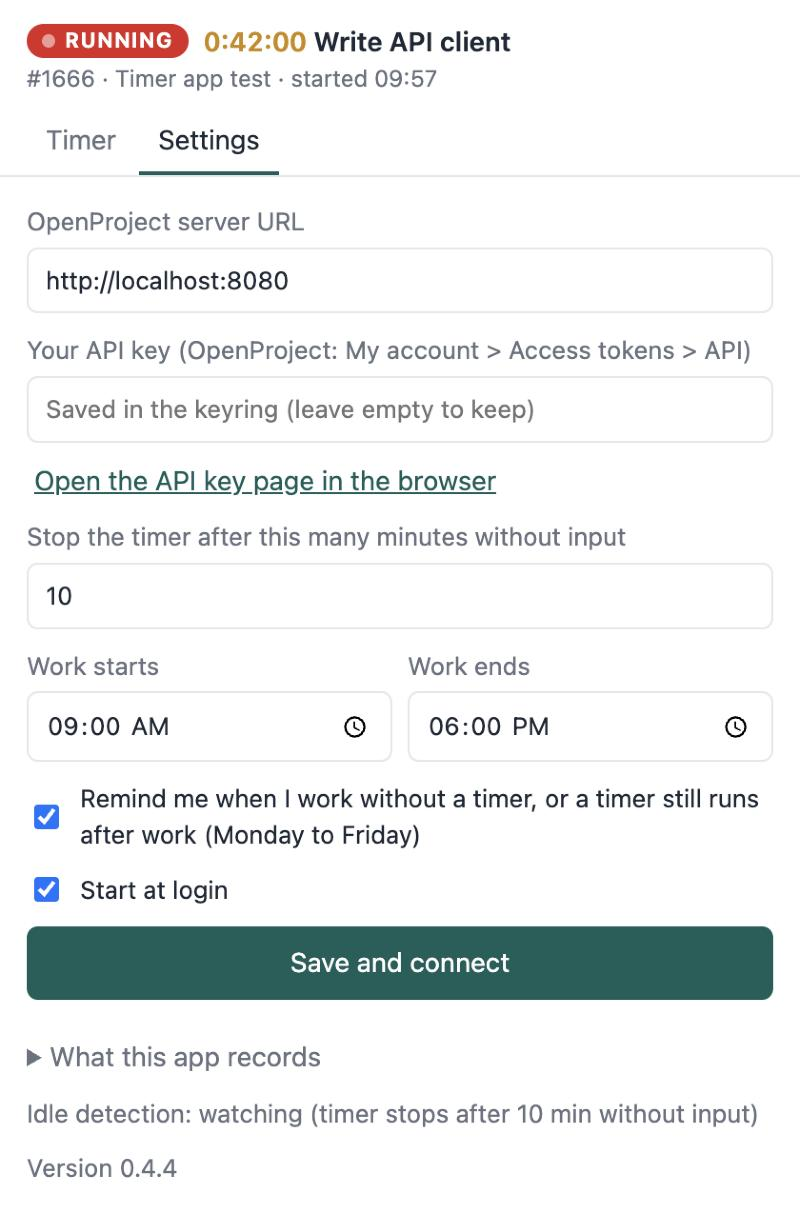
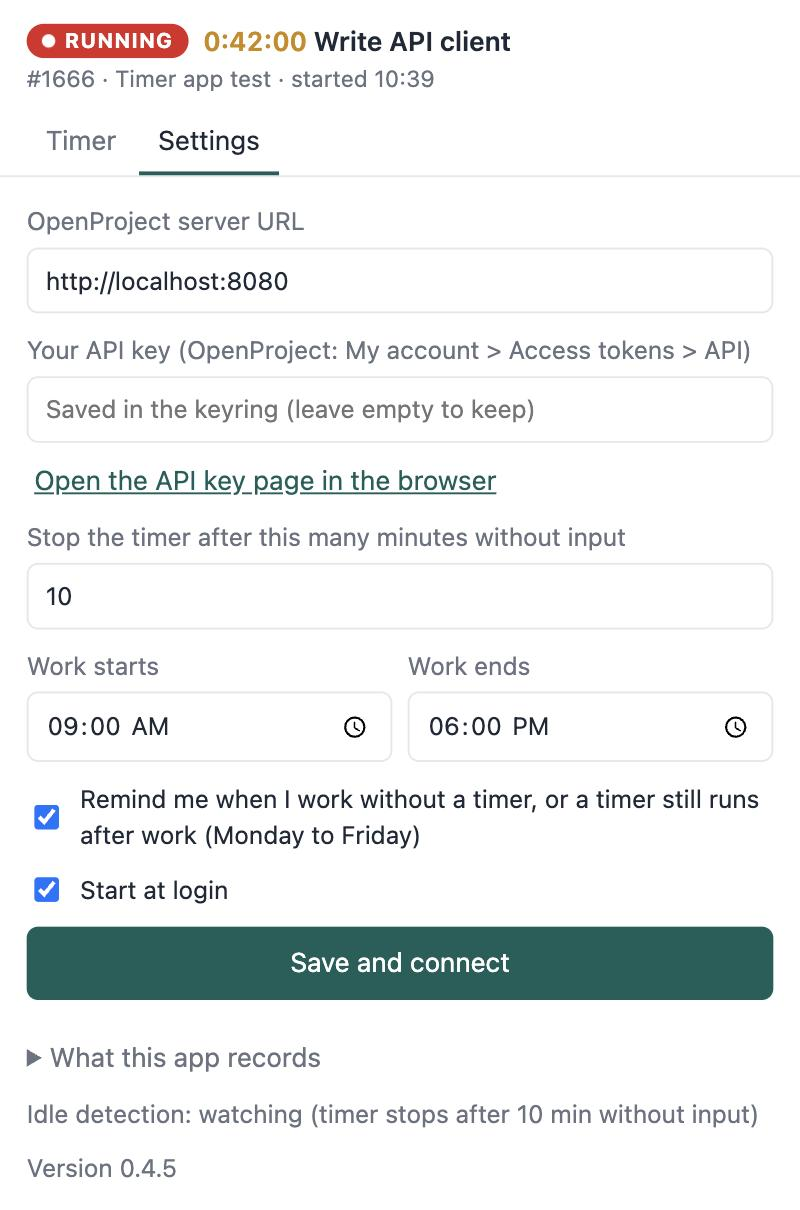
0.4.5: measure time on the server's clock; tray in step with the window
- Elapsed time and stop hours use the server's clock (HTTP Date header),
  so a computer clock that is off no longer shows or logs the wrong time
- Settings warns when the computer's clock is off by a minute or more
- Tray text refreshes every 5 seconds
- Changelog for 0.4.5; Settings screenshot and demo GIF updated

diff --git a/ui/main.js b/ui/main.js
@@ -272,6 +272,13 @@ function render() {
   $("#set-key").placeholder = state.configured ? "Saved in the keyring (leave empty to keep)" : "";
   $("#idle-status").textContent = state.idle_status;
   $("#app-version").textContent = state.version || "";
+  // The computer's clock is off: the app uses the server's clock, but say so (other programs
+  // and the browser timer will still be wrong).
+  const off = state.clock_offset_secs || 0;
+  $("#clock-warn").hidden = Math.abs(off) < 60;
+  $("#clock-warn").textContent = "This computer's clock is " + Math.round(Math.abs(off) / 60) +
+    " min " + (off > 0 ? "behind" : "ahead of") + " the server. The timer uses the server's time; " +
+    "turn on automatic date & time in Ubuntu's settings to fix the clock.";
   $("#btn-update").hidden = !state.update_version;
   $("#btn-update").textContent = "Update to " + (state.update_version || "") + ": install and restart";
 }

diff --git a/dev/mock-tauri.js b/dev/mock-tauri.js
@@ -12,7 +12,7 @@
     settings: { server_url: "http://localhost:8080", idle_minutes: 10, work_start: "09:00", work_end: "18:00", reminders: true, start_at_login: true },
     user: { id: 11, name: "Timer Test" }, timer: null, idle_stop: null, stop_problem: null,
     offline: false, waiting: [], refusal: null,
-    break_available: true, version: "0.4.4",
+    break_available: true, version: "0.4.5",
     today: [
       { id: 501, task: { id: 1667, subject: "Design tray menu", project: "Timer app test" }, hours: 1.5, comment: "Tray layout" },
       { id: 502, task: { id: 1791, subject: "Breaks", project: "Internal" }, hours: 0.25, comment: "Tea" },

diff --git a/ui/index.html b/ui/index.html
@@ -167,6 +167,7 @@
       </details>
       <p class="hint">Idle detection: <span id="idle-status"></span></p>
       <p class="hint">Version <span id="app-version"></span></p>
+      <p id="clock-warn" class="hint warn" hidden></p>
       <button id="btn-update" class="primary" hidden></button>
     </section>
   </main>

diff --git a/src-tauri/src/lib.rs b/src-tauri/src/lib.rs
@@ -53,6 +53,8 @@ struct App {
     /// A newer version found by the updater, ready to install.
     update: tokio::sync::Mutex<Option<tauri_plugin_updater::Update>>,
     update_version: Mutex<Option<String>>,
+    /// Last tray title and tooltip set.
+    tray_text: Mutex<(String, String)>,
     /// Today's finished entries, and the running task's hours against its estimate.
     today: Mutex<Vec<Logged>>,
     task_hours: Mutex<Option<TaskHours>>,
@@ -95,6 +97,8 @@ struct RefusalView {
 
 #[derive(Serialize)]
 struct Snapshot {
+    /// Seconds this computer's clock is behind the server's (negative = ahead).
+    clock_offset_secs: i64,
     configured: bool,
     settings: Settings,
     max_idle_minutes: u32,
@@ -144,7 +148,7 @@ async fn snapshot(app: &AppHandle) -> Snapshot {
     let settings = st.settings.lock().unwrap().clone();
     let recent = st.recent.lock().unwrap().clone();
     let core = st.core.lock().await;
-    let now = Utc::now();
+    let now = crate::api::now();
     let timer = match (&core.timer, &core.session) {
         (Some(t), Some(s)) => Some(TimerView {
             entry_id: t.id,
@@ -188,6 +192,7 @@ async fn snapshot(app: &AppHandle) -> Snapshot {
         .clone()
         .filter(|h| timer.as_ref().is_some_and(|t| t.task.id == h.task_id));
     Snapshot {
+        clock_offset_secs: crate::api::clock_offset_secs(),
         configured: core.client.is_some(),
         settings,
         max_idle_minutes: MAX_IDLE_MINUTES,
@@ -287,6 +292,42 @@ fn build_menu(app: &AppHandle, snap: &Snapshot) -> tauri::Result<Menu<tauri::Wry
     Ok(menu)
 }
 
+/// The tray's title and tooltip. Set only when they change, so it can run every few seconds.
+fn set_tray_text(app: &AppHandle, tray: &tauri::tray::TrayIcon, timer: Option<(String, i64)>, configured: bool, offline: bool) {
+    let mut title = match (&timer, configured) {
+        (Some((_, secs)), _) => format!("● {}", fmt_hm(*secs)),
+        (None, true) => "no timer".into(),
+        (None, false) => String::new(),
+    };
+    if offline {
+        title.push_str(" (offline)");
+    }
+    let tip = match &timer {
+        Some((subject, secs)) => format!("DWL timer: {} ({})", subject, fmt_hm(*secs)),
+        None => "DWL timer: no timer running".into(),
+    };
+    let st = app.state::<App>();
+    let mut last = st.tray_text.lock().unwrap();
+    if *last != (title.clone(), tip.clone()) {
+        let _ = tray.set_title(Some(title.clone()));
+        let _ = tray.set_tooltip(Some(tip.clone()));
+        *last = (title, tip);
+    }
+}
+
+/// Keep the tray's minutes in step with the window's clock (the full refresh runs every 30 s).
+async fn refresh_tray_text(app: &AppHandle) {
+    let Some(tray) = app.tray_by_id(TRAY_ID) else { return };
+    let (timer, configured, offline) = {
+        let st = app.state::<App>();
+        let core = st.core.lock().await;
+        let timer = core.timer.as_ref().zip(core.session.as_ref())
+            .map(|(t, s)| (t.task.subject.clone(), s.worked_secs(crate::api::now())));
+        (timer, core.client.is_some(), core.offline)
+    };
+    set_tray_text(app, &tray, timer, configured, offline);
+}
+
 /// Push the new state to the tray and the window.
 async fn publish(app: &AppHandle) {
     let snap = snapshot(app).await;
@@ -294,20 +335,8 @@ async fn publish(app: &AppHandle) {
         if let Ok(menu) = build_menu(app, &snap) {
             let _ = tray.set_menu(Some(menu));
         }
-        let mut title = match (&snap.timer, snap.configured) {
-            (Some(t), _) => format!("● {}", fmt_hm(t.worked_secs)),
-            (None, true) => "no timer".into(),
-            (None, false) => String::new(),
-        };
-        if snap.offline {
-            title.push_str(" (offline)");
-        }
-        let _ = tray.set_title(Some(title));
-        let tip = match &snap.timer {
-            Some(t) => format!("DWL timer: {} ({})", t.task.subject, fmt_hm(t.worked_secs)),
-            None => "DWL timer: no timer running".into(),
-        };
-        let _ = tray.set_tooltip(Some(tip));
+        let timer = snap.timer.as_ref().map(|t| (t.task.subject.clone(), t.worked_secs));
+        set_tray_text(app, &tray, timer, snap.configured, snap.offline);
     }
     let _ = app.emit_to(WINDOW, "state", &snap);
 }
@@ -601,7 +630,7 @@ async fn run_stop(app: &AppHandle, res: Result<Stop, String>) -> Result<bool, St
 
 #[tauri::command]
 async fn stop_timer(app: AppHandle, input: Option<StopInput>) -> Result<bool, String> {
-    let res = app.state::<App>().core.lock().await.stop(Utc::now(), input.unwrap_or_default()).await;
+    let res = app.state::<App>().core.lock().await.stop(crate::api::now(), input.unwrap_or_default()).await;
     run_stop(&app, res).await
 }
 
@@ -610,7 +639,7 @@ async fn stop_and_start(app: AppHandle, task_id: u64, comment: String, input: Op
     let res = {
         let st = app.state::<App>();
         let mut core = st.core.lock().await;
-        core.stop_and_start(task_id, &comment, Utc::now(), input.unwrap_or_default()).await
+        core.stop_and_start(task_id, &comment, crate::api::now(), input.unwrap_or_default()).await
     };
     run_stop(&app, res).await
 }
@@ -643,7 +672,7 @@ fn debug_fake_away(state: State<'_, App>, minutes: i64) -> Result<(), String> {
     if std::env::var("DWL_TIMER_DEBUG").as_deref() != Ok("1") {
         return Err("debug commands are off".into());
     }
-    let now = Utc::now();
+    let now = crate::api::now();
     let tx = &state.idle_tx;
     tx.send(IdleEvent::Idle { since: now - chrono::Duration::minutes(minutes) }).map_err(|e| e.to_string())?;
     tx.send(IdleEvent::Active { at: now }).map_err(|e| e.to_string())?;
@@ -739,7 +768,7 @@ async fn remind(app: &AppHandle) {
     let s = st.settings.lock().unwrap().clone();
     let (configured, timer) = {
         let core = st.core.lock().await;
-        let timer = core.timer.as_ref().zip(core.session.as_ref()).map(|(t, s)| (t.task.subject.clone(), s.worked_secs(Utc::now())));
+        let timer = core.timer.as_ref().zip(core.session.as_ref()).map(|(t, s)| (t.task.subject.clone(), s.worked_secs(crate::api::now())));
         (core.client.is_some(), timer)
     };
     if !configured {
@@ -765,6 +794,13 @@ async fn remind(app: &AppHandle) {
 }
 
 fn spawn_tickers(app: AppHandle) {
+    let tray_app = app.clone();
+    tauri::async_runtime::spawn(async move {
+        loop {
+            tokio::time::sleep(std::time::Duration::from_secs(5)).await;
+            refresh_tray_text(&tray_app).await;
+        }
+    });
     tauri::async_runtime::spawn(async move {
         let mut n: u64 = 0;
         loop {
@@ -786,7 +822,7 @@ fn spawn_tickers(app: AppHandle) {
                 let _ = refresh(app.clone()).await;
             }
             // Sleep / restart gaps and stops that failed while offline.
-            let res = app.state::<App>().core.lock().await.tick(Utc::now()).await;
+            let res = app.state::<App>().core.lock().await.tick(crate::api::now()).await;
             handle_due(&app, res).await;
             remind(&app).await;
             // Updates: a minute after start, then every 6 hours.
@@ -820,7 +856,7 @@ async fn connect_on_start(app: AppHandle) {
     set_error(&app, result.err());
     if st.core.lock().await.client.is_some() {
         // Time since the app last ran (shutdown, crash) counts as away; the user is here now.
-        let now = Utc::now();
+        let now = crate::api::now();
         let mut core = st.core.lock().await;
         let gap = core.tick(now).await;
         let back = core.on_idle_event(&IdleEvent::Active { at: now }).await;
@@ -870,6 +906,7 @@ pub fn run() {
                 pick: Mutex::new(None),
                 update: tokio::sync::Mutex::new(None),
                 update_version: Mutex::new(None),
+                tray_text: Mutex::new(Default::default()),
                 today: Mutex::new(vec![]),
                 task_hours: Mutex::new(None),
             });

diff --git a/src-tauri/src/api.rs b/src-tauri/src/api.rs
@@ -37,6 +37,43 @@ pub type Result<T> = std::result::Result<T, ApiError>;
 /// finding out what happened on a tester's computer. Set once by the app; tests leave it unset.
 pub static REQUEST_LOG: std::sync::OnceLock<std::path::PathBuf> = std::sync::OnceLock::new();
 
+/// The server's clock minus this computer's clock, in milliseconds. Timer start times come
+/// from the server, so elapsed time and the hours sent on stop must be measured on the server's
+/// clock too: a computer clock that is a few minutes off would otherwise show and log the wrong
+/// time. Measured from the `Date` header of every answer.
+static CLOCK_OFFSET_MS: std::sync::atomic::AtomicI64 = std::sync::atomic::AtomicI64::new(0);
+
+/// "Now" on the server's clock. Use this, not `Utc::now()`, for anything compared with a
+/// timer's start.
+pub fn now() -> DateTime<Utc> {
+    Utc::now() + chrono::Duration::milliseconds(CLOCK_OFFSET_MS.load(std::sync::atomic::Ordering::Relaxed))
+}
+
+/// How far this computer's clock is behind the server's, in whole seconds (negative = ahead).
+pub fn clock_offset_secs() -> i64 {
+    CLOCK_OFFSET_MS.load(std::sync::atomic::Ordering::Relaxed) / 1000
+}
+
+/// The new offset after a measurement. `Date` has whole seconds and the request takes time, so
+/// small differences are noise: keep the old value unless the new one is over 2 s away.
+fn next_offset(stored_ms: i64, measured_ms: i64) -> i64 {
+    if (measured_ms - stored_ms).abs() > 2000 { measured_ms } else { stored_ms }
+}
+
+fn note_server_date(date: Option<&reqwest::header::HeaderValue>, sent: DateTime<Utc>, received: DateTime<Utc>) {
+    let Some(server) = date
+        .and_then(|d| d.to_str().ok())
+        .and_then(|d| DateTime::parse_from_rfc2822(d).ok())
+    else {
+        return;
+    };
+    // The server wrote `Date` somewhere during the request, rounded down to the second.
+    let local_mid = sent + (received - sent) / 2;
+    let measured = (server.with_timezone(&Utc) + chrono::Duration::milliseconds(500) - local_mid).num_milliseconds();
+    let stored = CLOCK_OFFSET_MS.load(std::sync::atomic::Ordering::Relaxed);
+    CLOCK_OFFSET_MS.store(next_offset(stored, measured), std::sync::atomic::Ordering::Relaxed);
+}
+
 fn log_request(method: &str, url: &str, status: &str) {
     let Some(path) = REQUEST_LOG.get() else { return };
     // Keep it small: start over past 1 MB.
@@ -268,6 +305,7 @@ impl Client {
             .build()
             .map_err(|e| ApiError::Network(e.to_string()))?;
         let (method, url) = (req.method().to_string(), req.url().to_string());
+        let sent = Utc::now();
         let resp = match self.http.execute(req).await {
             Ok(r) => r,
             Err(e) => {
@@ -276,6 +314,7 @@ impl Client {
             }
         };
         let status = resp.status();
+        note_server_date(resp.headers().get(reqwest::header::DATE), sent, Utc::now());
         log_request(&method, &url, status.as_str());
         if status == reqwest::StatusCode::UNAUTHORIZED {
             return Err(ApiError::Unauthorized);
@@ -545,5 +584,14 @@ mod tests {
         assert!(e.ongoing);
         assert_eq!(e.task, Task { id: 1666, subject: "Write API client".into(), project: "Timer app test".into() });
         assert_eq!(e.started_at.to_rfc3339(), "2026-11-05T05:03:35.452+00:00");
+    }
+
+    #[test]
+    fn clock_offset_ignores_noise() {
+        assert_eq!(next_offset(0, 1500), 0);
+        assert_eq!(next_offset(0, -1900), 0);
+        assert_eq!(next_offset(0, 180_000), 180_000);
+        assert_eq!(next_offset(180_000, 181_000), 180_000);
+        assert_eq!(next_offset(180_000, 0), 0);
     }
 }

diff --git a/src-tauri/src/idle.rs b/src-tauri/src/idle.rs
@@ -41,7 +41,7 @@ pub fn spawn(threshold: Duration, tx: UnboundedSender<IdleEvent>) -> IdleHandle 
 }
 
 fn ago(d: Duration) -> DateTime<Utc> {
-    Utc::now() - chrono::Duration::from_std(d).unwrap_or_default()
+    crate::api::now() - chrono::Duration::from_std(d).unwrap_or_default()
 }
 
 /// Generic polling loop over "how long since the last input".
@@ -133,7 +133,7 @@ mod platform {
                         active_id = Some(proxy.add_user_active_watch().await?);
                     } else if Some(id) == active_id {
                         active_id = None;
-                        let _ = tx.send(IdleEvent::Active { at: Utc::now() });
+                        let _ = tx.send(IdleEvent::Active { at: crate::api::now() });
                     }
                 }
             }

diff --git a/src-tauri/src/core.rs b/src-tauri/src/core.rs
@@ -455,7 +455,7 @@ impl Core {
         if let Some(t) = &self.timer {
             return Err(format!("A timer is already running on \"{}\". Stop it first.", t.task.subject));
         }
-        let now = Utc::now();
+        let now = crate::api::now();
         let entry = TimeEntry {
             id: PENDING,
             ongoing: true,
@@ -604,7 +604,7 @@ impl Core {
         if self.timer.is_none() {
             return Ok(());
         }
-        self.stop_at(Utc::now(), StopInput::default(), Some(from))
+        self.stop_at(crate::api::now(), StopInput::default(), Some(from))
             .await
             .map(|_| ())
             .map_err(|e| format!("Could not stop the timer after you went away: {e}"))

diff --git a/CHANGELOG.md b/CHANGELOG.md
@@ -2,8 +2,12 @@
 
 Versions follow [semantic versioning](https://semver.org/). Dates are release dates.
 
-## Unreleased
+## 0.4.5 (2026-11-12)
 
+- All times are measured on the server's clock (from the HTTP `Date` header), so a computer clock
+  that is off no longer shows or logs the wrong time.
+- Settings warns when the computer's clock is off by a minute or more.
+- The tray text refreshes every 5 seconds, in step with the window.
 - Plain `http://` server URLs are refused unless the server is on localhost or a private network,
   so the API key is never sent unencrypted over the internet. An existing setup with such a URL
   shows "Not set up" until the URL is changed to `https://` in Settings.
